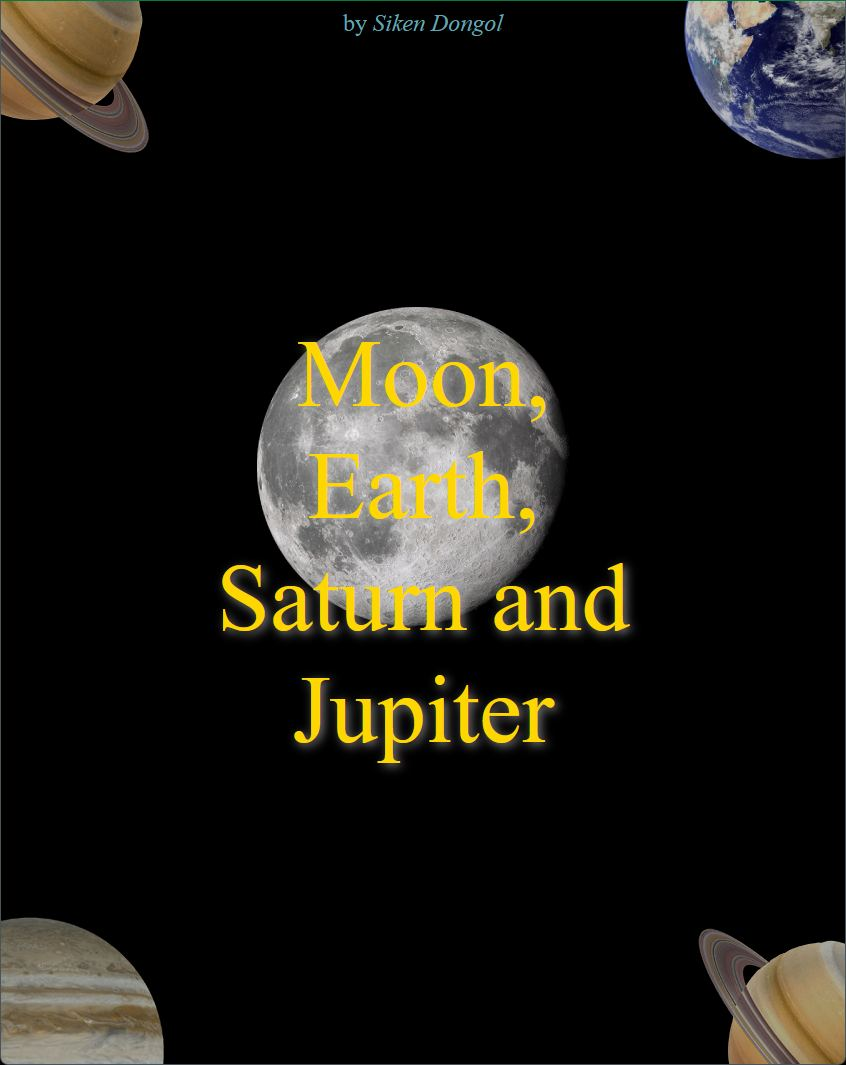
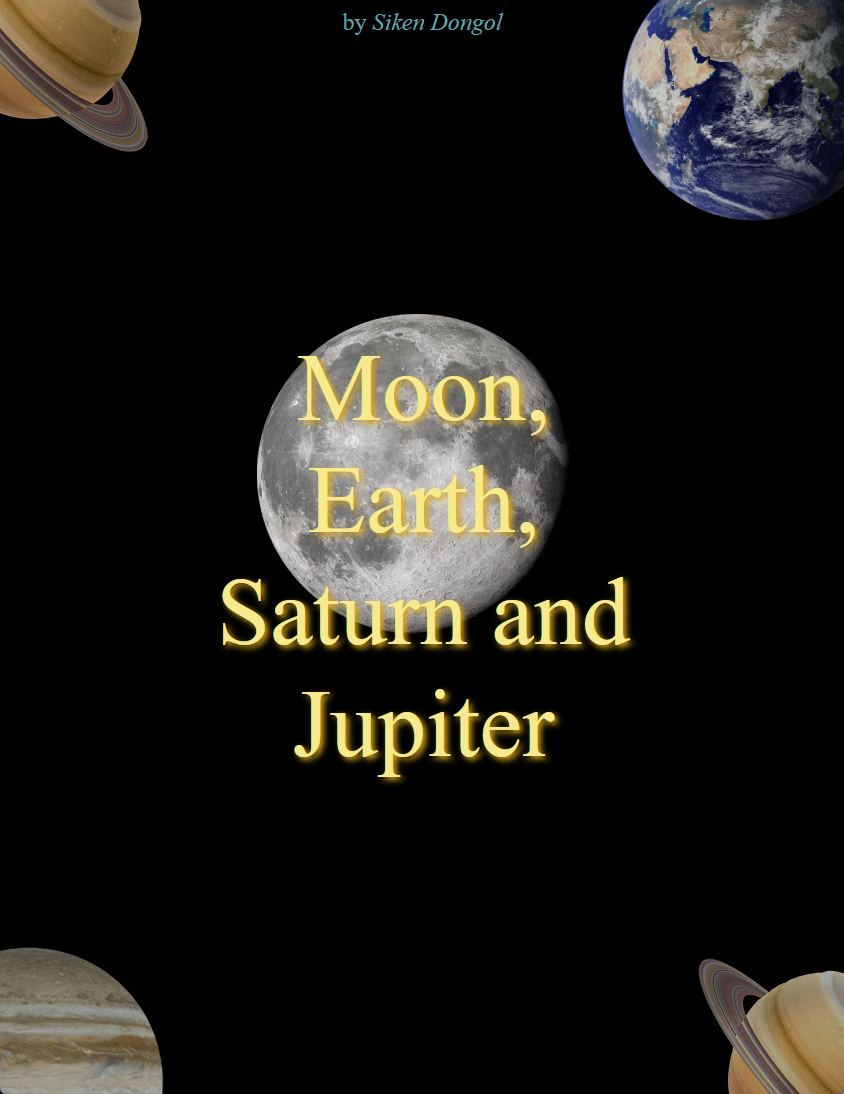
CSS animation of Earth added

diff --git a/src/style.css b/src/style.css
@@ -9,11 +9,14 @@
 
     CSS center absolute positioning
     - moon position is at somewhere center
+
+    Movement of the Earth
+    - Earth moves towards the moon diagonally and next return backs
 */
 
 :root {
   --textcolor1: #60a9b4;
-  --textcolor2: gold;
+  --textcolor2: #f7e98e;
 
   --transNeg-Mobile: -50%;
   --transPos-Mobile: 50%;
@@ -30,7 +33,6 @@
   height: 100vh;
   /* important for bottom-left/right abs position */
 
-  color: silver;
   color: var(--textcolor1);
   font-size: 1.5rem;
   text-align: center;
@@ -76,7 +78,7 @@
   text-align: center;
   font-size: 6rem;
   color: var(--textcolor2);
-  text-shadow: 0.2rem 0.2rem 0.6rem rgba(190, 190, 190, 0.7);
+  text-shadow: 0.2rem 0.2rem 0.4rem goldenrod;
 }
 
 .moon {
@@ -84,6 +86,14 @@
   top: 28%;
   left: 30%;
   z-index: -1;  /* send moon to the back position */
+}
+
+.earth-rotate {
+  animation: mymove 240s infinite;
+}
+
+@keyframes mymove {
+  43% {transform: rotate(360deg);} /* comes towards the moon diagonally and goes back */
 }
 
 @media only screen and (max-width: 600px) {

diff --git a/index.html b/index.html
@@ -16,8 +16,7 @@
             min-width: 480px;
 
             /* prevent text selection */
-            /* Safari */
-            -webkit-user-select: none;
+            -webkit-user-select: none; /* for Safari */
             user-select: none;
         }
     </style>
@@ -26,7 +25,7 @@
 <body>
     <div class="container">
         <img class="top-left" src="./img/saturn.png" alt="Saturn" />
-        <img class="top-right" src="./img/earth.png" alt="Earth" />
+        <img class="top-right earth-rotate" src="./img/earth.png" alt="Earth" />
         <img class="bottom-left" src="./img/jupiter.png" alt="Jupiter" />
         <img class="bottom-right" src="./img/saturn.png" alt="Saturn" />
         <img class="moon" src="./img/moon320.png" alt="Moon">

diff --git a/src/four-corner.html b/src/four-corner.html
@@ -16,8 +16,7 @@
             min-width: 480px;
 
             /* prevent text selection */
-            /* Safari */
-            -webkit-user-select: none;
+            -webkit-user-select: none; /* for Safari */
             user-select: none;
         }
     </style>

diff --git a/README.md b/README.md
@@ -8,6 +8,7 @@ My CSS Experiments of 2023 and beyond
     - displays moon at the center of the page.
     - makes use of css variables
     - prevented text selection
+    - animation of Earth, coming towards the moon slowly
 
 ### Example CSS Code in four-corner.html
 ```css
@@ -24,6 +25,10 @@ My CSS Experiments of 2023 and beyond
   top: 28%;
   left: 30%;
   z-index: -1;  /* send moon to the back position */
+}
+
+.earth-rotate {
+  animation: mymove 240s infinite;
 }
 
 @media only screen and (max-width: 600px) {
